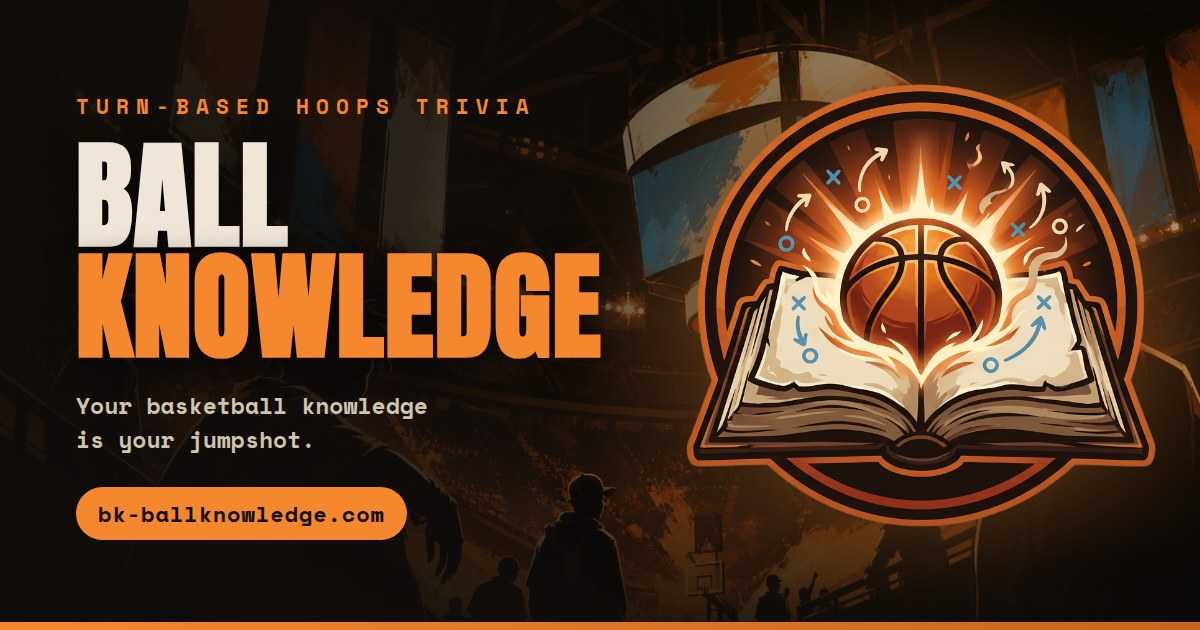
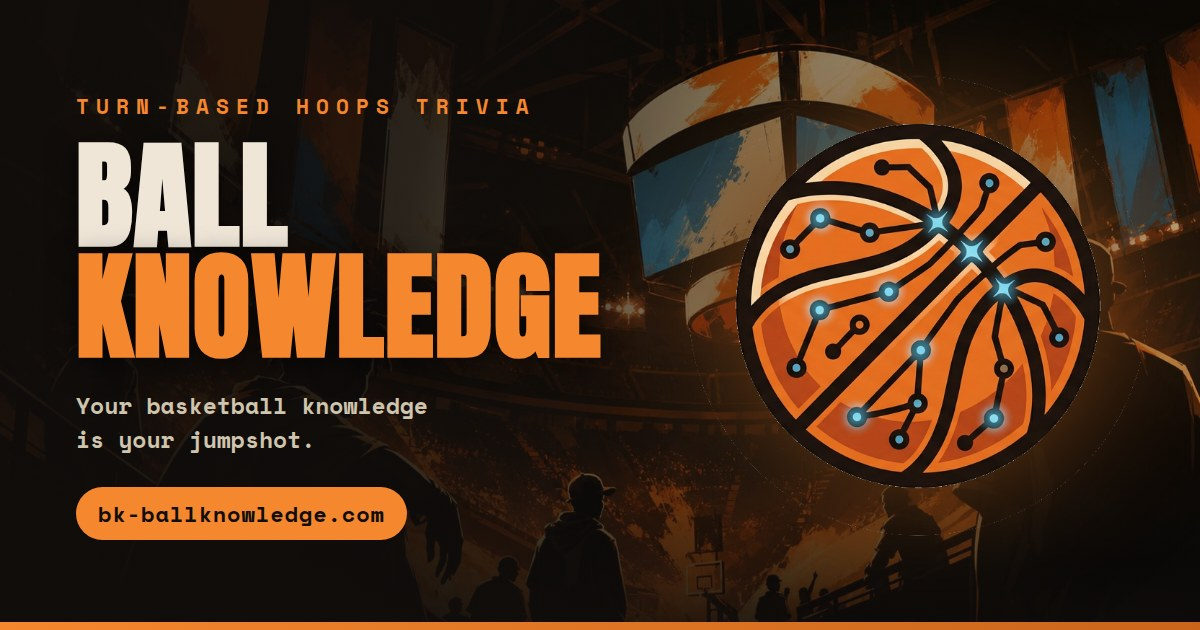
feat: share card headliner is #76, the circuit ball — Aaron's pick over #41
Same layout, wordmark, and meta wiring; only the emblem changed. #48 stays
as the tab/app icon.

Claude-Session: https://claude.ai/code/session_01R7grX6ywtAGtN8myw22kyx

Changed region(s): [[0.555, 0.1206, 0.9867, 0.8444]]

diff --git a/BUILD.md b/BUILD.md
@@ -723,9 +723,10 @@ callouts — so the whole game reads as one thing. Self-host Sedgwick woff2 in
   design/art-bank/logo-finalists/. Role-cast by the 16px gauntlet: **#48
   (head + basketball brain) is the identity mark** — favicon.ico (16/32/48),
   favicon-32.png, apple-touch-icon + 192/512 tiles (brand ground + orange
-  glow), and a root /favicon.ico; **#41 (flaming playbook) headlines the
-  share card** — 1200x630 og:image (emblem over the arena art, Anton
-  wordmark, tagline, URL chip; rendered from the site's own fonts, 137KB).
+  glow), and a root /favicon.ico; **#76 (circuit ball) headlines the
+  share card** (Aaron compared #41/#76 renders and picked 76) — 1200x630
+  og:image (emblem over the arena art, Anton wordmark, tagline, URL chip;
+  rendered from the site's own fonts, 127KB).
   Full og:/twitter: meta wired into /play/ AND the root landing page with
   absolute bk-ballknowledge.com URLs, so link previews in texts/group chats
   show the card. Old inline-SVG "BK" favicon retired. Assets live in
